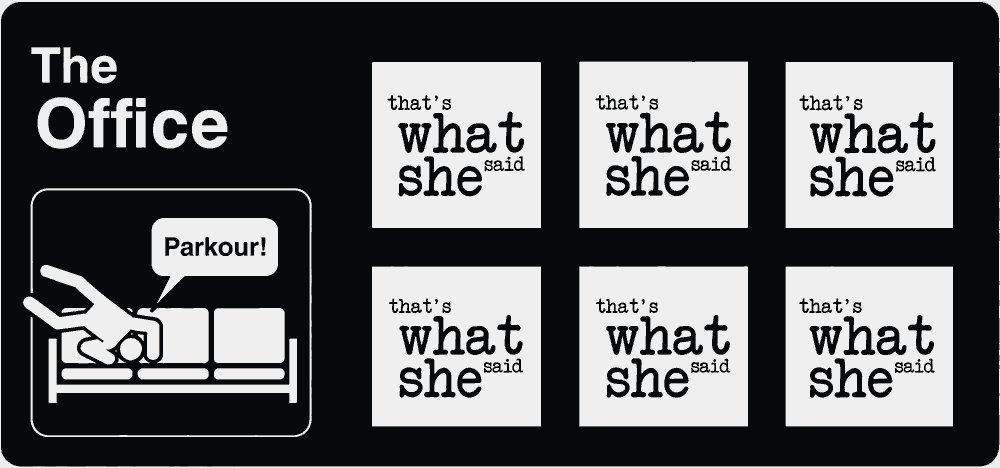
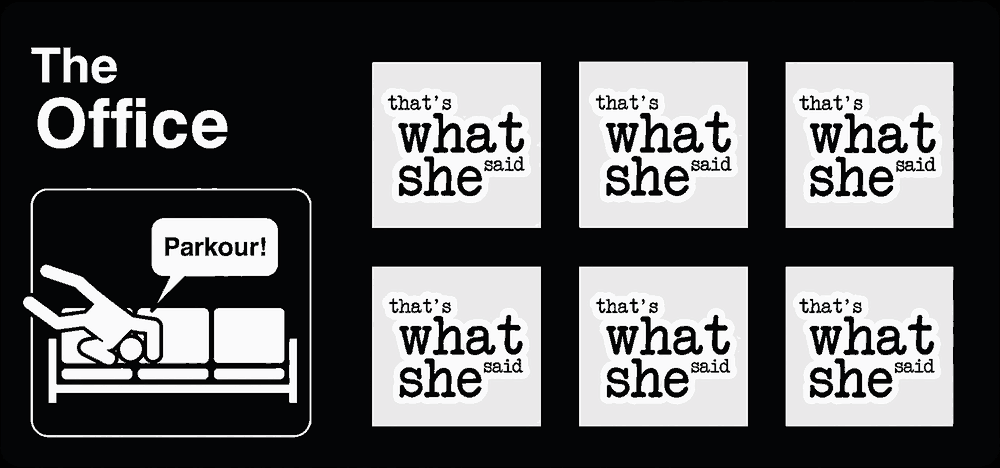
fix(cadi-kazan): install verified Office master asset

diff --git a/artifacts/cascade-8/src/cadi-kazan/witch.visual-lock.css b/artifacts/cascade-8/src/cadi-kazan/witch.visual-lock.css
@@ -3562,7 +3562,7 @@
   width: 29.0878% !important; height: 45.6044% !important;
 }
 .is-office-theme .witch-board > .witch-cell:nth-child(2) {
-  left: 35.8003% !important; top: 0 !important;
+  left: 35.6282% !important; top: 0 !important;
   width: 29.0878% !important; height: 45.6044% !important;
 }
 .is-office-theme .witch-board > .witch-cell:nth-child(3) {
@@ -3574,7 +3574,7 @@
   width: 29.0878% !important; height: 43.6813% !important;
 }
 .is-office-theme .witch-board > .witch-cell:nth-child(5) {
-  left: 35.8003% !important; top: 56.3187% !important;
+  left: 35.6282% !important; top: 56.3187% !important;
   width: 29.0878% !important; height: 43.6813% !important;
 }
 .is-office-theme .witch-board > .witch-cell:nth-child(6) {
@@ -3780,9 +3780,9 @@
   height: 45.6044% !important;
 }
 .is-office-theme .witch-board > .witch-cell:nth-child(2) {
-  left: 35.8003% !important;
+  left: 35.6282% !important;
   top: 0 !important;
-  width: 28.9157% !important;
+  width: 29.0878% !important;
   height: 45.6044% !important;
 }
 .is-office-theme .witch-board > .witch-cell:nth-child(3) {
@@ -3798,9 +3798,9 @@
   height: 43.6813% !important;
 }
 .is-office-theme .witch-board > .witch-cell:nth-child(5) {
-  left: 35.8003% !important;
+  left: 35.6282% !important;
   top: 56.3187% !important;
-  width: 28.9157% !important;
+  width: 29.0878% !important;
   height: 43.6813% !important;
 }
 .is-office-theme .witch-board > .witch-cell:nth-child(6) {

diff --git a/artifacts/cascade-8/src/cadi-kazan/cadiKazanSmoke.test.ts b/artifacts/cascade-8/src/cadi-kazan/cadiKazanSmoke.test.ts
@@ -212,10 +212,10 @@ describe("cadi kazan route smoke contract", () => {
     expect(visualLockSource).toContain("PASS 19 — THE OFFICE master-PNG shell");
     expect(visualLockSource).toContain("aspect-ratio: 1000 / 468");
     expect(visualLockSource).toContain("left: 37.2% !important");
-    expect(visualLockSource).toContain("left: 35.8003% !important");
+    expect(visualLockSource).toContain("left: 35.6282% !important");
     expect(visualLockSource).toContain("left: 71.2565% !important");
     expect(visualLockSource).toContain("top: 56.3187% !important");
-    expect(visualLockSource).toContain("width: 28.9157% !important");
+    expect(visualLockSource).toContain("width: 29.0878% !important");
     expect(visualLockSource).toContain(".witch-board > .witch-cell:nth-child(1)");
     expect(visualLockSource).toContain(".witch-board > .witch-cell:nth-child(6)");
     expect(visualLockSource).toContain("overflow: hidden !important");

diff --git a/artifacts/cascade-8/src/cadi-kazan/AGENTS.md b/artifacts/cascade-8/src/cadi-kazan/AGENTS.md
@@ -29,7 +29,7 @@ The scratch system, styles, route mount, client, and Cadı-specific audio runtim
 - If a note conflicts with code/tests/ownership rules, the validated repository state wins.
 
 ## Current milestones
-- 2026-09-30 — The Office validated PNG + monochrome deck theme — root cause of the corrupted preview was a wrong repository binary: GitHub still carried the old tiny asset instead of the intended card. A visually verified 1000×468 PNG is now the canonical Office master, scratch zones are measured to that exact image, and OFFICE_MATCH_6 keeps the black/white/cool-gray deck theme. Next: promote and visually verify.
+- 2026-09-30 — The Office validated PNG + monochrome deck theme — the canonical Office master is now the visually verified 1000×468 PNG (Git blob c2219486b89b959abfafca4729c256ff229923bf), with the six scratch rectangles measured directly from that exact file: union x=372..953 / y=62..426. OFFICE_MATCH_6 keeps the black/white/cool-gray deck theme. Next: promote this exact source SHA and verify the preview asset SHA before Replit sync.
 - 2026-09-27 — The Office master-PNG card shell — the visible Office ticket is now one bundled 1511×707 PNG; legacy CSS-drawn Office/Parkour artwork is hidden, and only six live scratch cells overlay the PNG. Scratch union and all six cells use measured percentage coordinates from the PNG and each cell clips its canvases/debris so scratching cannot spill outside the printed white zones.
 - 2026-09-27 — The Office cutout matte fix — near-black matte pixels around the supplied character JPEGs are converted to transparency at render time, so the characters sit directly on the white scratch-result cells without black rectangles; source artwork sizing and prize badges stay unchanged.
 - 2026-09-27 — The Office scratch UX pass — Office-only result backgrounds are white, no-prize completion now plays a negative cue, Office brush radius is increased another 10% from the prior 1.30× setting to 1.43× baseline, and one continuous pointer drag can scratch across multiple Office cells while Standard/Advanced keep single-cell routing.
